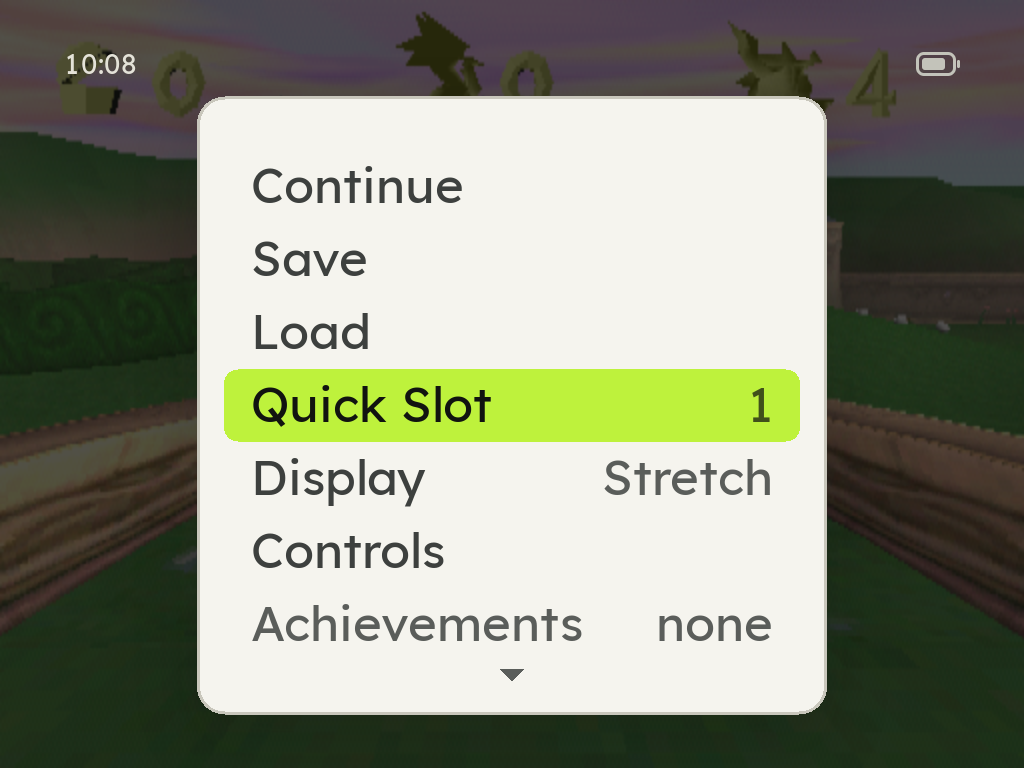
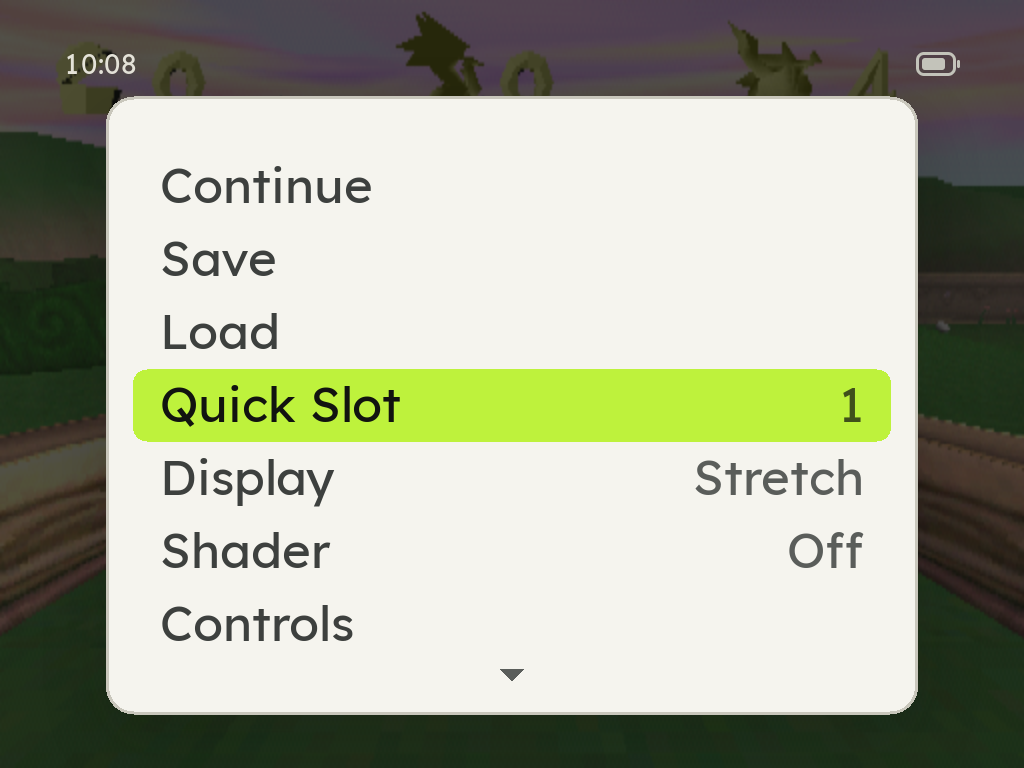
Sharp-Shimmerless in the guide, the README and the site
The guide's three Shader rows and what a shader does; a feature line, a
Shaders row in How it compares (ROGUE OS: DraStic's screen filter, its
README; ROCKNIX: built-in shaders per game or per system, its shaders
page; the rest say nothing either way) on both; and the in-game menu's
shot on its Shader row, Sharp-Shimmerless, in light, over the Spyro
backdrop, for the README and the site's carousel.

readme-shots takes a shot's own settings (SHOT_SETTINGS, the handheld's
database, only while it is taken), and i18n-shots uses them, so the fit
check meets Sharp-Shimmerless in every language.

diff --git a/site/index.html b/site/index.html
@@ -348,7 +348,7 @@
     <figure class="shot" data-i="9" style="transform:translateX(-50%) translateX(250%) scale(0.4);opacity:0;z-index:2"><img src="img/cheevos.png" width="1024" height="768" alt="An achievements list" decoding="async"></figure>
     <figure class="shot" data-i="10" style="transform:translateX(-50%) translateX(250%) scale(0.4);opacity:0;z-index:1"><img src="img/portmaster.png" width="1024" height="768" alt="Install PortMaster: its icon, its version and the download&#x27;s bar" decoding="async"></figure>
     <figure class="shot" data-i="11" style="transform:translateX(-50%) translateX(250%) scale(0.4);opacity:0;z-index:0"><img src="img/storage.png" width="1024" height="768" alt="MENU &gt; Storage: the card in one bar by part, two recommendations, then every system by size" decoding="async"></figure>
-    <figure class="shot" data-i="12" style="transform:translateX(-50%) translateX(250%) scale(0.4);opacity:0;z-index:0"><img src="img/gamemenu.png" width="1024" height="768" alt="The in-game menu over a paused Spyro the Dragon, on its Quick Slot row" decoding="async"></figure>
+    <figure class="shot" data-i="12" style="transform:translateX(-50%) translateX(250%) scale(0.4);opacity:0;z-index:0"><img src="img/gamemenu-shader.png" width="1024" height="768" alt="The in-game menu over a paused Spyro the Dragon, on its Shader row: Sharp-Shimmerless, with Quick Slot 1 above it" decoding="async"></figure>
     <figure class="shot" data-i="13" style="transform:translateX(-50%) translateX(250%) scale(0.4);opacity:0;z-index:0"><img src="img/controls-hotkeys.png" width="1024" height="768" alt="Controls: Hotkeys. SELECT with R1 and L1 quick save and load, with R2 and L2 faster and slower" decoding="async"></figure>
     <figure class="shot" data-i="14" style="transform:translateX(-50%) translateX(250%) scale(0.4);opacity:0;z-index:0"><img src="img/mp4.png" width="1024" height="768" alt="MP4&#x27;s shelf of an album, a film and a book, each marked with what it is" decoding="async"></figure>
     <figure class="shot" data-i="15" style="transform:translateX(-50%) translateX(250%) scale(0.4);opacity:0;z-index:0"><img src="img/battery.png" width="1024" height="768" alt="MENU &gt; Battery Icon set to Time Left: the corner reads 3 h 25 min beside the battery" decoding="async"></figure>
@@ -461,6 +461,7 @@
       <div><h3>A cable that finds its way</h3><p>Open http://zyperos.local on the computer. Until the page opens, USB File Transfer ticks off the cable, the address and the browser, and says what to do when one stalls. The cable is a network of two, so the computer never sends the page anywhere else.</p></div>
       <div><h3>System Update</h3><p>Over Wi-Fi, only what changed, signed, with Roll Back. Without Wi-Fi, the File Transfer page brings it over the USB cable.</p></div>
       <div><h3>Rumble and side lights</h3><p>Dreamcast, PlayStation and Game Boy Color rumble games shake the Pixel 2. Its four side lights show the battery charging and running low, the volume and brightness as you change them, a climb when files or covers finish, and a sparkle for an achievement. MENU &gt; Side Lights turns each on or off.</p></div>
+      <div><h3>Sharp pixels, no shimmer</h3><p>Shader in the in-game menu turns on Sharp-Shimmerless, zadpos's shader. At a size that is not a whole number of times the game's, every pixel stays the same size and as sharp as it can be, so a scroll doesn't shimmer. For one system, or for every system in MENU &gt; Shader.</p></div>
       <div><h3>Clocks per system</h3><p>8-bit and handheld systems run at lower clocks, measured to keep every frame, and the battery lasts longer.</p></div>
       <div><h3>Quick save, quick load</h3><p>Hold SELECT and press R1 to save a state, L1 to load it, into the slot you pick for each system. SELECT on its own still belongs to the game.</p></div>
       <div><h3>Faster, slower, and turbo</h3><p>SELECT + R2 runs a game at 1.5x, 2x or 3x, and SELECT + L2 steps back down. X and Y are turbo A and B.</p></div>
@@ -511,7 +512,8 @@
      - ROGUE OS: github.com/Ninoh-FOX/PIXEL2-ROGUE-OS at f567073, its README,
        release GKDPIXELII_1.22, es_systems.cfg (123 entries, 117 without
        tools, music, mplayer, imageviewer, ports, moonlight), iux/skins (13),
-       iux/translations (English and 20 more, read 2026-11-07)
+       iux/translations (English and 20 more, read 2026-11-07); its README's
+       Drastic 2 section, "Change screen filter" (read 2026-11-12)
      - TortOS: github.com/ericreinsmidt/TortOS at aafe6de, README and
        docs/guide.md; plastron's README at b67f5ec (rumble, 2.2 s from power
        on); release v2.1.1
@@ -520,7 +522,8 @@
        rk3326s-gkd-pixel2.dts (pwm-vibrator), quirks/devices/GameKiddy GKD
        Pixel2 (DEVICE_BATTERY_LED_STATUS); rocknix.org, play/add-games,
        configure/scraper, play/retro-achievements, play/update,
-       configure/themes; emulationstation-next at f6c5428, GuiMenu.cpp
+       configure/themes, configure/shaders (read 2026-11-12);
+       emulationstation-next at f6c5428, GuiMenu.cpp
        (FRONTEND MUSIC; LANGUAGE, 36 choices, and locale/lang); release 20261101
      - plumOS Pixel2: github.com/game-de-it/plumOS-pixel2_v2 at dec872c, its
        README, docs/user/network.md, updates.md, storage.md,
@@ -562,6 +565,7 @@
           <tr><th scope="row">Media player</th><td class="us"><span class="ic yes" tabindex="0" role="img" aria-label="Yes. Music, audiobooks and video" data-tip="Music, audiobooks and video"><svg viewBox="0 0 24 24" aria-hidden="true"><path d="M5 12.5l4.5 4.5L19 7.5"/></svg></span></td><td><span class="ic unk" tabindex="0" role="img" aria-label="Unknown. No source we read says either way." data-tip="No source we read says either way.">–</span></td><td><span class="ic yes" tabindex="0" role="img" aria-label="Yes. Music and video" data-tip="Music and video"><svg viewBox="0 0 24 24" aria-hidden="true"><path d="M5 12.5l4.5 4.5L19 7.5"/></svg></span></td><td><span class="ic yes" tabindex="0" role="img" aria-label="Yes. Music and audiobooks" data-tip="Music and audiobooks"><svg viewBox="0 0 24 24" aria-hidden="true"><path d="M5 12.5l4.5 4.5L19 7.5"/></svg></span></td><td><span class="ic yes" tabindex="0" role="img" aria-label="Yes. Music and video" data-tip="Music and video"><svg viewBox="0 0 24 24" aria-hidden="true"><path d="M5 12.5l4.5 4.5L19 7.5"/></svg></span></td><td><span class="ic yes" tabindex="0" role="img" aria-label="Yes. Music" data-tip="Music"><svg viewBox="0 0 24 24" aria-hidden="true"><path d="M5 12.5l4.5 4.5L19 7.5"/></svg></span></td></tr>
           <tr><th scope="row">PortMaster</th><td class="us"><span class="ic yes" tabindex="0" role="img" aria-label="Yes. Installed from the Ports shelf with one press, over Wi-Fi, with the in-game menu over every port" data-tip="Installed from the Ports shelf with one press, over Wi-Fi, with the in-game menu over every port"><svg viewBox="0 0 24 24" aria-hidden="true"><path d="M5 12.5l4.5 4.5L19 7.5"/></svg></span></td><td><span class="ic yes" tabindex="0" role="img" aria-label="Yes. Preloaded" data-tip="Preloaded"><svg viewBox="0 0 24 24" aria-hidden="true"><path d="M5 12.5l4.5 4.5L19 7.5"/></svg></span></td><td><span class="ic yes" tabindex="0" role="img" aria-label="Yes. Included" data-tip="Included"><svg viewBox="0 0 24 24" aria-hidden="true"><path d="M5 12.5l4.5 4.5L19 7.5"/></svg></span></td><td><span class="ic unk" tabindex="0" role="img" aria-label="Unknown. No source we read says either way." data-tip="No source we read says either way.">–</span></td><td><span class="ic yes" tabindex="0" role="img" aria-label="Yes. Included" data-tip="Included"><svg viewBox="0 0 24 24" aria-hidden="true"><path d="M5 12.5l4.5 4.5L19 7.5"/></svg></span></td><td><span class="ic yes" tabindex="0" role="img" aria-label="Yes. Included" data-tip="Included"><svg viewBox="0 0 24 24" aria-hidden="true"><path d="M5 12.5l4.5 4.5L19 7.5"/></svg></span></td></tr>
           <tr><th scope="row">Rumble</th><td class="us"><span class="ic yes" tabindex="0" role="img" aria-label="Yes. Games rumble" data-tip="Games rumble"><svg viewBox="0 0 24 24" aria-hidden="true"><path d="M5 12.5l4.5 4.5L19 7.5"/></svg></span></td><td><span class="ic unk" tabindex="0" role="img" aria-label="Unknown. No source we read says either way." data-tip="No source we read says either way.">–</span></td><td><span class="ic yes" tabindex="0" role="img" aria-label="Yes. Through SDL2, with a stronger setting" data-tip="Through SDL2, with a stronger setting"><svg viewBox="0 0 24 24" aria-hidden="true"><path d="M5 12.5l4.5 4.5L19 7.5"/></svg></span></td><td><span class="ic no" tabindex="0" role="img" aria-label="No. plastron&#x27;s README: neither device has rumble" data-tip="plastron&#x27;s README: neither device has rumble"><svg viewBox="0 0 24 24" aria-hidden="true"><path d="M7 7l10 10M17 7L7 17"/></svg></span></td><td><span class="ic yes" tabindex="0" role="img" aria-label="Yes. The Pixel 2&#x27;s vibration motor is in its device tree" data-tip="The Pixel 2&#x27;s vibration motor is in its device tree"><svg viewBox="0 0 24 24" aria-hidden="true"><path d="M5 12.5l4.5 4.5L19 7.5"/></svg></span></td><td><span class="ic unk" tabindex="0" role="img" aria-label="Unknown. No source we read says either way." data-tip="No source we read says either way.">–</span></td></tr>
+          <tr><th scope="row">Shaders</th><td class="us"><span class="ic yes" tabindex="0" role="img" aria-label="Yes. Sharp-Shimmerless, for one system or every system" data-tip="Sharp-Shimmerless, for one system or every system"><svg viewBox="0 0 24 24" aria-hidden="true"><path d="M5 12.5l4.5 4.5L19 7.5"/></svg></span></td><td><span class="ic unk" tabindex="0" role="img" aria-label="Unknown. No source we read says either way." data-tip="No source we read says either way.">–</span></td><td><span class="ic yes" tabindex="0" role="img" aria-label="Yes. A screen filter in DraStic" data-tip="A screen filter in DraStic"><svg viewBox="0 0 24 24" aria-hidden="true"><path d="M5 12.5l4.5 4.5L19 7.5"/></svg></span></td><td><span class="ic unk" tabindex="0" role="img" aria-label="Unknown. No source we read says either way." data-tip="No source we read says either way.">–</span></td><td><span class="ic yes" tabindex="0" role="img" aria-label="Yes. Built in, per game or per system" data-tip="Built in, per game or per system"><svg viewBox="0 0 24 24" aria-hidden="true"><path d="M5 12.5l4.5 4.5L19 7.5"/></svg></span></td><td><span class="ic unk" tabindex="0" role="img" aria-label="Unknown. No source we read says either way." data-tip="No source we read says either way.">–</span></td></tr>
           <tr><th scope="row">Side lights</th><td class="us"><span class="ic yes" tabindex="0" role="img" aria-label="Yes. The battery, volume and brightness, finished transfers and achievements, each on or off in Settings &gt; Side Lights" data-tip="The battery, volume and brightness, finished transfers and achievements, each on or off in Settings &gt; Side Lights"><svg viewBox="0 0 24 24" aria-hidden="true"><path d="M5 12.5l4.5 4.5L19 7.5"/></svg></span></td><td><span class="ic unk" tabindex="0" role="img" aria-label="Unknown. No source we read says either way." data-tip="No source we read says either way.">–</span></td><td><span class="ic unk" tabindex="0" role="img" aria-label="Unknown. No source we read says either way." data-tip="No source we read says either way.">–</span></td><td><span class="ic yes" tabindex="0" role="img" aria-label="Yes. The battery" data-tip="The battery"><svg viewBox="0 0 24 24" aria-hidden="true"><path d="M5 12.5l4.5 4.5L19 7.5"/></svg></span></td><td><span class="ic yes" tabindex="0" role="img" aria-label="Yes. The battery" data-tip="The battery"><svg viewBox="0 0 24 24" aria-hidden="true"><path d="M5 12.5l4.5 4.5L19 7.5"/></svg></span></td><td><span class="ic unk" tabindex="0" role="img" aria-label="Unknown. No source we read says either way." data-tip="No source we read says either way.">–</span></td></tr>
           <tr><th scope="row">Storage by part and by game</th><td class="us"><span class="ic yes" tabindex="0" role="img" aria-label="Yes. MENU &gt; Storage: the card in one bar by part, every system, game, album and film by size, and what can go" data-tip="MENU &gt; Storage: the card in one bar by part, every system, game, album and film by size, and what can go"><svg viewBox="0 0 24 24" aria-hidden="true"><path d="M5 12.5l4.5 4.5L19 7.5"/></svg></span></td><td><span class="ic unk" tabindex="0" role="img" aria-label="Unknown. No source we read says either way." data-tip="No source we read says either way.">–</span></td><td><span class="ic unk" tabindex="0" role="img" aria-label="Unknown. No source we read says either way." data-tip="No source we read says either way.">–</span></td><td><span class="ic unk" tabindex="0" role="img" aria-label="Unknown. No source we read says either way." data-tip="No source we read says either way.">–</span></td><td><span class="ic unk" tabindex="0" role="img" aria-label="Unknown. No source we read says either way." data-tip="No source we read says either way.">–</span></td><td><span class="ic unk" tabindex="0" role="img" aria-label="Unknown. No source we read says either way." data-tip="No source we read says either way.">–</span></td></tr>
           <tr><th scope="row">Pick a game's cover on the device</th><td class="us"><span class="ic yes" tabindex="0" role="img" aria-label="Yes. From libretro, ScreenScraper and SteamGridDB, a big look first, the old one kept to put back" data-tip="From libretro, ScreenScraper and SteamGridDB, a big look first, the old one kept to put back"><svg viewBox="0 0 24 24" aria-hidden="true"><path d="M5 12.5l4.5 4.5L19 7.5"/></svg></span></td><td><span class="ic unk" tabindex="0" role="img" aria-label="Unknown. No source we read says either way." data-tip="No source we read says either way.">–</span></td><td><span class="ic unk" tabindex="0" role="img" aria-label="Unknown. No source we read says either way." data-tip="No source we read says either way.">–</span></td><td><span class="ic unk" tabindex="0" role="img" aria-label="Unknown. No source we read says either way." data-tip="No source we read says either way.">–</span></td><td><span class="ic unk" tabindex="0" role="img" aria-label="Unknown. No source we read says either way." data-tip="No source we read says either way.">–</span></td><td><span class="ic unk" tabindex="0" role="img" aria-label="Unknown. No source we read says either way." data-tip="No source we read says either way.">–</span></td></tr>
@@ -699,7 +703,7 @@
 (() => {
   const shelf = document.querySelector(".shelf"), stage = shelf.querySelector(".stage");
   const shots = [...stage.querySelectorAll(".shot")];
-  const caps = ["Favorites from every system", "Your games, cover by cover", "Box art the handheld finds itself", "A heart for each favorite", "Every system, in pixel art", "Or the Gallery home", "Pick a game's cover, and see it first", "A game's details, one button away", "RetroAchievements, and Zyper cheers", "Every achievement, with its badge", "PortMaster with one press", "What fills the card, by part and by size", "Quick save and load, to the slot you pick", "SELECT with a shoulder: the hotkeys", "Your albums, books and films, in MP4", "The battery, as time left", "Box art from three sources", "The device's settings in one menu"];
+  const caps = ["Favorites from every system", "Your games, cover by cover", "Box art the handheld finds itself", "A heart for each favorite", "Every system, in pixel art", "Or the Gallery home", "Pick a game's cover, and see it first", "A game's details, one button away", "RetroAchievements, and Zyper cheers", "Every achievement, with its badge", "PortMaster with one press", "What fills the card, by part and by size", "Sharp-Shimmerless and a quick slot, per system", "SELECT with a shoulder: the hotkeys", "Your albums, books and films, in MP4", "The battery, as time left", "Box art from three sources", "The device's settings in one menu"];
   const STEP = [0, .86, 1.52, 2.06, 2.5], SCALE = [1, .78, .62, .5, .4], DIM = [1, .75, .55, .35, 0];
   const cap = shelf.querySelector("[data-cap]"), count = shelf.querySelector("[data-count]");
   const rail = shelf.querySelector(".rail i"), steps = [...shelf.querySelectorAll("[data-step]")];

diff --git a/tools/readme-shots.py b/tools/readme-shots.py
@@ -104,7 +104,7 @@ LR_REPO={'PlayStation':'Sony_-_PlayStation','NES':'Nintendo_-_Nintendo_Entertain
          'Nintendo 64':'Nintendo_-_Nintendo_64','Dreamcast':'Sega_-_Dreamcast','ScummVM':'ScummVM'}
 # With --art, the in-game menu and its Controls pages stand over a screenshot
 # of a PlayStation game (--backdrop) rather than a made-up frame
-BACKDROP=['gamemenu','controls-ps1','controls-hotkeys']
+BACKDROP=['gamemenu','gamemenu-shader','controls-ps1','controls-hotkeys']
 BACKDROP_GAME='Spyro the Dragon (USA)'   # bright, so the panel reads against it
 ART_CACHE=Path.home()/'Library/Caches/zyperos-readme-art'
 GAMES=[Path(f).stem for f,_ in LIBRARY['PlayStation']]
@@ -209,6 +209,8 @@ SHOTS={
     # Quick Slot row, a PlayStation game's buttons drawn as their shapes, and
     # its Hotkeys page, SELECT with a shoulder
     'gamemenu':('demo','PS1',['--screen','games','--gamemenu','3']),
+    # ...on its Shader row, Sharp-Shimmerless (SHOT_SETTINGS)
+    'gamemenu-shader':('demo','PS1',['--screen','games','--gamemenu','5']),
     'controls-ps1':('demo','PS1',['--screen','games','--gamecontrols','0','PS1']),
     'controls-hotkeys':('demo','PS1',['--screen','games','--gamecontrols','2','PS1']),
 }
@@ -427,6 +429,20 @@ def media_card(card,art=None,manifest=None):
     (card/'Videos').mkdir();(card/'Videos/Sintel.mp4').touch()
     book=card/'Audiobooks/Treasure Island';book.mkdir(parents=True)
     (book/'01 The Old Sea-dog at the Admiral Benbow.mp3').touch()
+
+# A shot's settings in the handheld's own database (userdata/zyperos.db, as
+# the launcher's db_dev keeps them), there only while it is taken
+SHOT_SETTINGS={'gamemenu-shader':{'shader.PS1':'shimmerless'}}
+
+def set_settings(card,settings,on):
+    """A shot's settings (SHOT_SETTINGS) into the handheld's database, or out"""
+    if not settings: return
+    (card/'userdata').mkdir(parents=True,exist_ok=True)
+    with sqlite3.connect(card/'userdata/zyperos.db') as db:
+        db.execute('CREATE TABLE IF NOT EXISTS settings(key TEXT PRIMARY KEY NOT NULL,value TEXT NOT NULL)')
+        for key,value in settings.items():
+            if on: db.execute('INSERT OR REPLACE INTO settings(key,value) VALUES(?,?)',(key,value))
+            else: db.execute('DELETE FROM settings WHERE key=?',(key,))
 
 def set_favs(card,favs,on):
     """A shot's favorites (SHOT_FAVS) into the card's library, or out of it"""
@@ -701,9 +717,11 @@ def main():
                          '--screen','systems','--phase','3200',*status,'--fn-volume',*[f.replace('{card}',str(card)) for f in flags]]
                 if backdrop and name in BACKDROP: command+=['--backdrop',str(backdrop)]
                 set_favs(card,SHOT_FAVS.get(name,[]),True)
+                set_settings(card,SHOT_SETTINGS.get(name),True)
                 result=subprocess.run(command,cwd=ROOT,env=pm_env(env_for(card),name,temporary),text=True,
                                       stdout=subprocess.PIPE,stderr=subprocess.STDOUT)
                 set_favs(card,SHOT_FAVS.get(name,[]),False)
+                set_settings(card,SHOT_SETTINGS.get(name),False)
                 (dest/(name+'.log')).write_text(result.stdout)
                 if result.returncode and not (name in CORNER_OWN and CORNER_OWN[name] in result.stdout):
                     raise RuntimeError(f'{theme}/{name}: {result.stdout}')

diff --git a/tools/i18n-shots.py b/tools/i18n-shots.py
@@ -501,8 +501,12 @@ def run_language(code, shots, binary, keep):
                 pm.mkdir(exist_ok=True)
                 (pm / "status").write_text(PM_STATES[name][0])
                 env["ZYPEROS_PM_STATUS"] = str(pm / "status")
+            # A shot's own settings (readme-shots' SHOT_SETTINGS), only while it
+            # is taken: the Shader row at its widest value
+            R.set_settings(card, R.SHOT_SETTINGS.get(name), True)
             r = subprocess.run(command, cwd=ROOT, env=env, text=True, errors="replace",
                                stdout=subprocess.PIPE, stderr=subprocess.STDOUT)
+            R.set_settings(card, R.SHOT_SETTINGS.get(name), False)
             for line in r.stdout.splitlines():
                 if line.startswith(("i18n: cut data: ", "i18n: slides data: ", "i18n: tight data: ")):
                     data.setdefault(name, []).append(line[6:])

diff --git a/README.md b/README.md
@@ -97,7 +97,7 @@ Questions, ideas, or want to help build it? Come say hi on [the ZyperOS Discord]
   </tr>
   <tr>
     <td align="center"><img src="res/readme/cheevo-notice.png" width="240" alt="An achievement's unlock notice: its badge, 'Unlocked · 10 points' over its name, and Zyper at the right"><br><sub>RetroAchievements, and Zyper cheers</sub></td>
-    <td align="center"><img src="res/readme/gamemenu.png" width="240" alt="The in-game menu over a paused Spyro the Dragon, on its Quick Slot row"><br><sub>A quick slot for each system</sub></td>
+    <td align="center"><img src="res/readme/gamemenu-shader.png" width="240" alt="The in-game menu over a paused Spyro the Dragon, on its Shader row: Sharp-Shimmerless, with Quick Slot 1 above it"><br><sub>A shader and a quick slot for each system</sub></td>
     <td align="center"><img src="res/readme/controls-hotkeys.png" width="240" alt="Controls: Hotkeys. SELECT with R1 and L1 quick save and load, with R2 and L2 faster and slower"><br><sub>SELECT with a shoulder: the hotkeys</sub></td>
   </tr>
   <tr>
@@ -142,6 +142,7 @@ Questions, ideas, or want to help build it? Come say hi on [the ZyperOS Discord]
 - **Clocks per system:** 8-bit and handheld systems run the CPU, memory and GPU under lower ceilings, measured to keep every frame, and so does the 16-bit generation a step higher. Lower clocks run at lower voltage, which saves battery. At the first frame that comes late, a game goes back to full clocks for the rest of the session.
 - **Turbo buttons:** X and Y press A and B for you, on the nine consoles whose controllers had two face buttons. On Game Boy Advance, L2 and R2 do the same for L and R.
 - **Faster and slower:** hold SELECT and press **R2** to run a game at 1.5x, 2x or 3x, and **L2** to step back down to normal speed. A pop-up says the speed.
+- **Sharp pixels that don't shimmer:** **Shader** in the in-game menu turns on [Sharp-Shimmerless](https://github.com/Woohyun-Kang/Sharp-Shimmerless-Shader), zadpos's shader for pixel art drawn at a size that is not a whole number of times the game's, as a 256-pixel-wide game is on the 640-pixel screen. Every pixel stays the same size and as sharp as it can be, so a scrolling picture doesn't shimmer. Choose it for one system in a game or in that system's menu, or for every system in **MENU > Shader**. It starts Off.
 - **Every control, in the game:** **Controls** in the in-game menu shows what each button does in the game you are playing: its system's own buttons as its emulator reads them (the PlayStation's as their cross, circle, triangle and square), the turbo buttons, the hotkeys, the Nintendo 64's A and B on the A and B buttons, its stick on the d-pad (its own D-pad is SELECT with the d-pad), its C buttons (SELECT with X, A, B or Y) and Rumble Pak, the PICO-8's arrows, O, X and pause menu, and the DS's screens and stylus. Over a port it shows what the port documents: the controls in its README, the key each button types for it, and what to copy where before it runs.
 - **Rumble on the Pixel 2:** Dreamcast games, PlayStation games (as a DualShock) and Game Boy Color rumble cartridges shake the handheld, and Nintendo 64 games get a Rumble Pak. A game that saves to the Controller Pak, the N64's memory card, takes it instead in the in-game menu's **Pak** row, which keeps the choice for that game. The motor stops while the in-game menu is open.
 - **A USB-C headphone adapter on the Pixel 2:** plug one in and the sound goes there, ahead of the headphone jack, in games and in MP4. It's a choice of its own in Audio Output.
@@ -185,6 +186,7 @@ The GKD Pixel 2 has several operating systems to choose from. This is ZyperOS be
 | **Media player** | Music, audiobooks, video | — | Music, video | Music, audiobooks | Music, video | Music |
 | **PortMaster** | Yes, installed from the Ports shelf with one press, with the in-game menu over every port | Yes | Yes | — | Yes | Yes |
 | **Rumble** | Yes | — | Yes | No | Yes | — |
+| **Shaders** | Sharp-Shimmerless, for one system or every system | — | A screen filter in DraStic | — | Built in, per game or per system | — |
 | **Side lights** | Battery, volume and brightness, finished transfers, achievements: each on or off | — | — | Battery | Battery | — |
 | **Storage by part and by game** | Yes, with recommendations and media pages | — | — | — | — | — |
 | **Pick a game's cover on the device** | From three sources, a big look first, the old one kept to put back | — | — | — | — | — |
@@ -210,7 +212,7 @@ The GKD Pixel 2 has several operating systems to choose from. This is ZyperOS be
 - **Stock:** [Retro Game Corps, February 2025](https://retrogamecorps.com/2025/02/01/how-to-make-the-gkd-pixel-ii-software-suck-less/); the boot time is my own count (note 5).
 - **ROGUE OS:** [README](https://github.com/Ninoh-FOX/PIXEL2-ROGUE-OS/blob/f567073e9dd9d5f688a23728067d043af2fbdc20/README.md), [v1.22](https://github.com/Ninoh-FOX/PIXEL2-ROGUE-OS/releases/tag/GKDPIXELII_1.22), [system list](https://github.com/Ninoh-FOX/PIXEL2-ROGUE-OS/blob/f567073e9dd9d5f688a23728067d043af2fbdc20/EMUELEC/SYSTEM/usr/local/share/emulationstation/es_systems.cfg), [launcher skins](https://github.com/Ninoh-FOX/PIXEL2-ROGUE-OS/tree/f567073e9dd9d5f688a23728067d043af2fbdc20/EMUELEC/SYSTEM/usr/local/share/iux/skins), [launcher languages](https://github.com/Ninoh-FOX/PIXEL2-ROGUE-OS/tree/f567073e9dd9d5f688a23728067d043af2fbdc20/EMUELEC/SYSTEM/usr/local/share/iux/translations).
 - **TortOS:** [README](https://github.com/ericreinsmidt/TortOS/blob/aafe6dee0d8221642e68d8b17fb17c6c5a39f8e1/README.md), [guide](https://github.com/ericreinsmidt/TortOS/blob/aafe6dee0d8221642e68d8b17fb17c6c5a39f8e1/docs/guide.md), [plastron's README](https://github.com/ericreinsmidt/plastron/blob/b67f5ec86a601f878f1bc8452d16af7112950f3d/README.md), [v2.1.1](https://github.com/ericreinsmidt/TortOS/releases/tag/v2.1.1).
-- **ROCKNIX:** [README](https://github.com/ROCKNIX/distribution/blob/13d241a7d35fbe9b895ef04519f62bdb3a57d31f/README.md), [features](https://rocknix.org/), [adding games](https://rocknix.org/play/add-games/), [scraper](https://rocknix.org/configure/scraper/), [RetroAchievements](https://rocknix.org/play/retro-achievements/), [updates](https://rocknix.org/play/update/), [themes](https://rocknix.org/configure/themes/), [RK3326 systems](https://github.com/ROCKNIX/distribution/blob/13d241a7d35fbe9b895ef04519f62bdb3a57d31f/documentation/PER_DEVICE_DOCUMENTATION/RK3326/SUPPORTED_EMULATORS_AND_CORES.md), [Pixel 2 device tree](https://github.com/ROCKNIX/distribution/blob/13d241a7d35fbe9b895ef04519f62bdb3a57d31f/projects/ROCKNIX/devices/RK3326/linux/dts/rockchip/rk3326s-gkd-pixel2.dts) and [settings](https://github.com/ROCKNIX/distribution/tree/13d241a7d35fbe9b895ef04519f62bdb3a57d31f/projects/ROCKNIX/packages/hardware/quirks/devices/GameKiddy%20GKD%20Pixel2), [menu music](https://github.com/ROCKNIX/emulationstation-next/blob/f6c542872e3850c5f432929ead219547a897cd4a/es-app/src/guis/GuiMenu.cpp), [languages](https://github.com/ROCKNIX/emulationstation-next/blob/f6c542872e3850c5f432929ead219547a897cd4a/es-app/src/guis/GuiMenu.cpp#L1627-L1670), [20261101](https://github.com/ROCKNIX/distribution/releases/tag/20261101).
+- **ROCKNIX:** [README](https://github.com/ROCKNIX/distribution/blob/13d241a7d35fbe9b895ef04519f62bdb3a57d31f/README.md), [features](https://rocknix.org/), [adding games](https://rocknix.org/play/add-games/), [scraper](https://rocknix.org/configure/scraper/), [RetroAchievements](https://rocknix.org/play/retro-achievements/), [updates](https://rocknix.org/play/update/), [themes](https://rocknix.org/configure/themes/), [shaders](https://rocknix.org/configure/shaders/), [RK3326 systems](https://github.com/ROCKNIX/distribution/blob/13d241a7d35fbe9b895ef04519f62bdb3a57d31f/documentation/PER_DEVICE_DOCUMENTATION/RK3326/SUPPORTED_EMULATORS_AND_CORES.md), [Pixel 2 device tree](https://github.com/ROCKNIX/distribution/blob/13d241a7d35fbe9b895ef04519f62bdb3a57d31f/projects/ROCKNIX/devices/RK3326/linux/dts/rockchip/rk3326s-gkd-pixel2.dts) and [settings](https://github.com/ROCKNIX/distribution/tree/13d241a7d35fbe9b895ef04519f62bdb3a57d31f/projects/ROCKNIX/packages/hardware/quirks/devices/GameKiddy%20GKD%20Pixel2), [menu music](https://github.com/ROCKNIX/emulationstation-next/blob/f6c542872e3850c5f432929ead219547a897cd4a/es-app/src/guis/GuiMenu.cpp), [languages](https://github.com/ROCKNIX/emulationstation-next/blob/f6c542872e3850c5f432929ead219547a897cd4a/es-app/src/guis/GuiMenu.cpp#L1627-L1670), [20261101](https://github.com/ROCKNIX/distribution/releases/tag/20261101).
 - **plumOS Pixel2:** [README](https://github.com/game-de-it/plumOS-pixel2_v2/blob/dec872c042229c1d38443f7e8e3fe962fc369e81/README.md), [network](https://github.com/game-de-it/plumOS-pixel2_v2/blob/dec872c042229c1d38443f7e8e3fe962fc369e81/docs/user/network.md), [updates](https://github.com/game-de-it/plumOS-pixel2_v2/blob/dec872c042229c1d38443f7e8e3fe962fc369e81/docs/user/updates.md), [folders](https://github.com/game-de-it/plumOS-pixel2_v2/blob/dec872c042229c1d38443f7e8e3fe962fc369e81/docs/user/storage.md), [system list](https://github.com/game-de-it/plumOS-pixel2_v2/blob/dec872c042229c1d38443f7e8e3fe962fc369e81/package/frontend-pixel2/systems.json), [scraper](https://github.com/game-de-it/plumOS-pixel2_v2/blob/dec872c042229c1d38443f7e8e3fe962fc369e81/package/app-layer-pixel2/bin/plumos-thumbnail-scraper), [languages](https://github.com/game-de-it/plumOS-pixel2_v2/tree/dec872c042229c1d38443f7e8e3fe962fc369e81/vendor/plumos-frontend/seed/share/frontend/lang), [v0.1.4](https://github.com/game-de-it/plumOS-pixel2_v2/releases/tag/v0.1.4).
 - **The others:** [Knulli 20260511](https://github.com/knulli-cfw/knulli-linux/releases/tag/20260511), [muOS](https://github.com/MustardOS/mustardos.github.io/blob/HEAD/_data/devices/rk-pixel-2.yml), [twigUI](https://github.com/spruceUI/twigUI-next), [MinUI for the Pixel 2](https://github.com/NukeBomB3000/minui-gkd-pixel2).
 

diff --git a/docs/guide.md b/docs/guide.md
@@ -79,7 +79,7 @@ it away.
 | **F1/F2** | brightness, everywhere, including in game |
 | **MENU** (on the systems row) | the ZyperOS menu - settings that are about the firmware |
 | **MENU** (inside a system) | that system's menu, below |
-| **MENU** (in game) | the in-game menu: Continue, Save, Load, Quick Slot, Display, Controls, Achievements, Reset, Quit, and Pak in a Nintendo 64 game. It opens when you let go, so MENU can be held for brightness |
+| **MENU** (in game) | the in-game menu: Continue, Save, Load, Quick Slot, Display, Shader, Controls, Achievements, Reset, Quit, and Pak in a Nintendo 64 game. It opens when you let go, so MENU can be held for brightness |
 | **X** (in the in-game menu) | Quit, from any row: the game ends and the shelf comes back, as A on Quit does. The Quit row shows the X button to remind you |
 | **SELECT+R1** (in game) | quick save: a state into the Quick Slot |
 | **SELECT+L1** (in game) | quick load: the state in the Quick Slot |
@@ -195,6 +195,7 @@ than any one console:
 | **Appearance** | `Light`, `Dark` or `Auto`, which is light from 7:00 to 19:00 by the clock. `Light` on a new device and after an upgrade |
 | **Scraper** | box art, its sources and video snaps - see below. Its value is how many games have no cover, or `complete` |
 | **Achievements** | the RetroAchievements account, or `sign in` |
+| **Shader** | `Off` or `Sharp-Shimmerless`, for every system at once: each system's own choice goes. It says `per system` when a system has chosen another in its own menu or in a game. `Off` on a new device and after an upgrade - see **Shaders** below |
 | **Controls** | every button and what it does, a page per place |
 | **Show Tutorial** | the tutorial a new handheld starts with, again - see below |
 | **Developer Mode** | development images on the Pixel 2 only: `on` keeps the USB link to a computer always up, `off` asks when one is plugged in - see **Plugging into a computer** |
@@ -315,6 +316,7 @@ The system menu opens on a shelf of games and applies to that system alone:
 | **Game Language** | the Nintendo DS shelf's: left/right/A go round `Auto`, English, Español, Français, Deutsch, Italiano, 日本語 and 简体中文, saved the moment it changes. `Auto` is the language of MENU > Language where the DS has it and English where it does not, and the row says which. The next game started speaks it, whatever the language of the `firmware.bin` in `Bios/`. A game whose resume point was left in another language starts fresh in this one, with a note that says so, its battery save kept; a save state you load keeps its own language until Reset |
 | **Sort By** | left/right; `Name`, `Play Time`, `Last Played` or `Recently Added` |
 | **Display Mode** | left/right cycles it; saved the moment it changes |
+| **Shader** | `Off` or `Sharp-Shimmerless`, for this system alone: left, right or A steps it, saved the moment it changes. The next game started plays with it |
 | **Box Art** | fetch what this system is missing, and nothing else |
 | **Rescan Folder** | read the card again, for ROMs that arrived since boot |
 
@@ -337,6 +339,21 @@ on the card. Whichever order you pick, games it knows nothing about sort to
 the bottom rather than into the middle, and two games it cannot tell apart
 fall back to name - a shelf that reshuffles itself when nothing has changed
 reads as broken even when the top of it is right.
+
+**Shaders.** How a game's picture is drawn onto the screen at its last step.
+`Off` draws each of the game's pixels as the nearest screen pixels, so at a
+size that is not a whole number of times the game's (a 256-wide NES picture
+stretched to 640 is 2.5 times) some of its pixels are two screen pixels wide
+and some three, and a scrolling picture shimmers as they swap.
+`Sharp-Shimmerless`, zadpos's shader, keeps every pixel the same size: a
+screen pixel inside one of the game's pixels is that pixel exactly, and only
+one that falls across two of them mixes the two, by how much of it each
+covers. The picture stays as sharp as it can at that size and a scroll stays
+steady. At a whole number of times (Integer, Native 1:1) the two are the
+same. The in-game menu's **Shader** row, right under Display, changes it for
+the game's system, from the next frame after Continue (the paused picture
+behind the menu stays as it was); the system menu's row does the same from
+the shelf, and **MENU > Shader** sets every system at once.
 
 Rescan Folder is what makes a ROM that arrived after boot appear without a
 restart. Wi-Fi File Transfer already does it for you on the way out of the transfer
